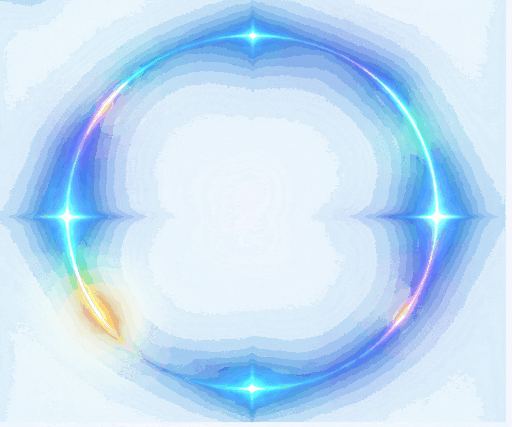
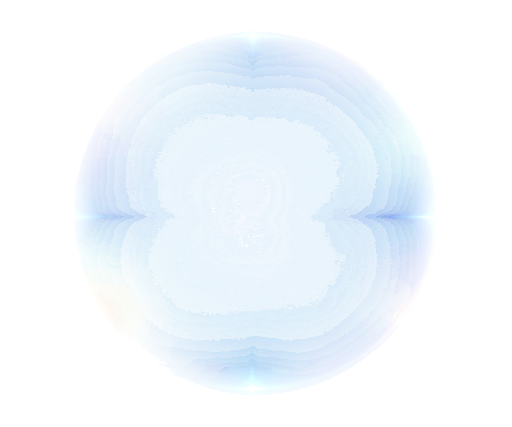
fix(app): lab technician one-click demo login; seal aura keyed to a round glow so it sits clean on cream

diff --git a/app/(auth)/login.tsx b/app/(auth)/login.tsx
@@ -99,6 +99,7 @@ const DEMO_ACCOUNTS = [
   // doctor; the clinician area adapts (no prescribing for non-prescribers).
   { key: 'nurse', icon: 'activity', labelKey: 'auth.demoLoginNurse', email: 'demo.nurse@opescare.test', password: 'demo1234', clinician: true },
   { key: 'pharmacist', icon: 'pill', labelKey: 'auth.demoLoginPharmacist', email: 'demo.pharmacist@opescare.test', password: 'demo1234', clinician: true },
+  { key: 'labtech', icon: 'flask', labelKey: 'auth.demoLoginLabtech', email: 'demo.labtech@opescare.test', password: 'demo1234', clinician: true },
   { key: 'receptionist', icon: 'clipboard', labelKey: 'auth.demoLoginReceptionist', email: 'demo.receptionist@opescare.test', password: 'demo1234', clinician: true },
 ] as const satisfies readonly {
   key: string;
